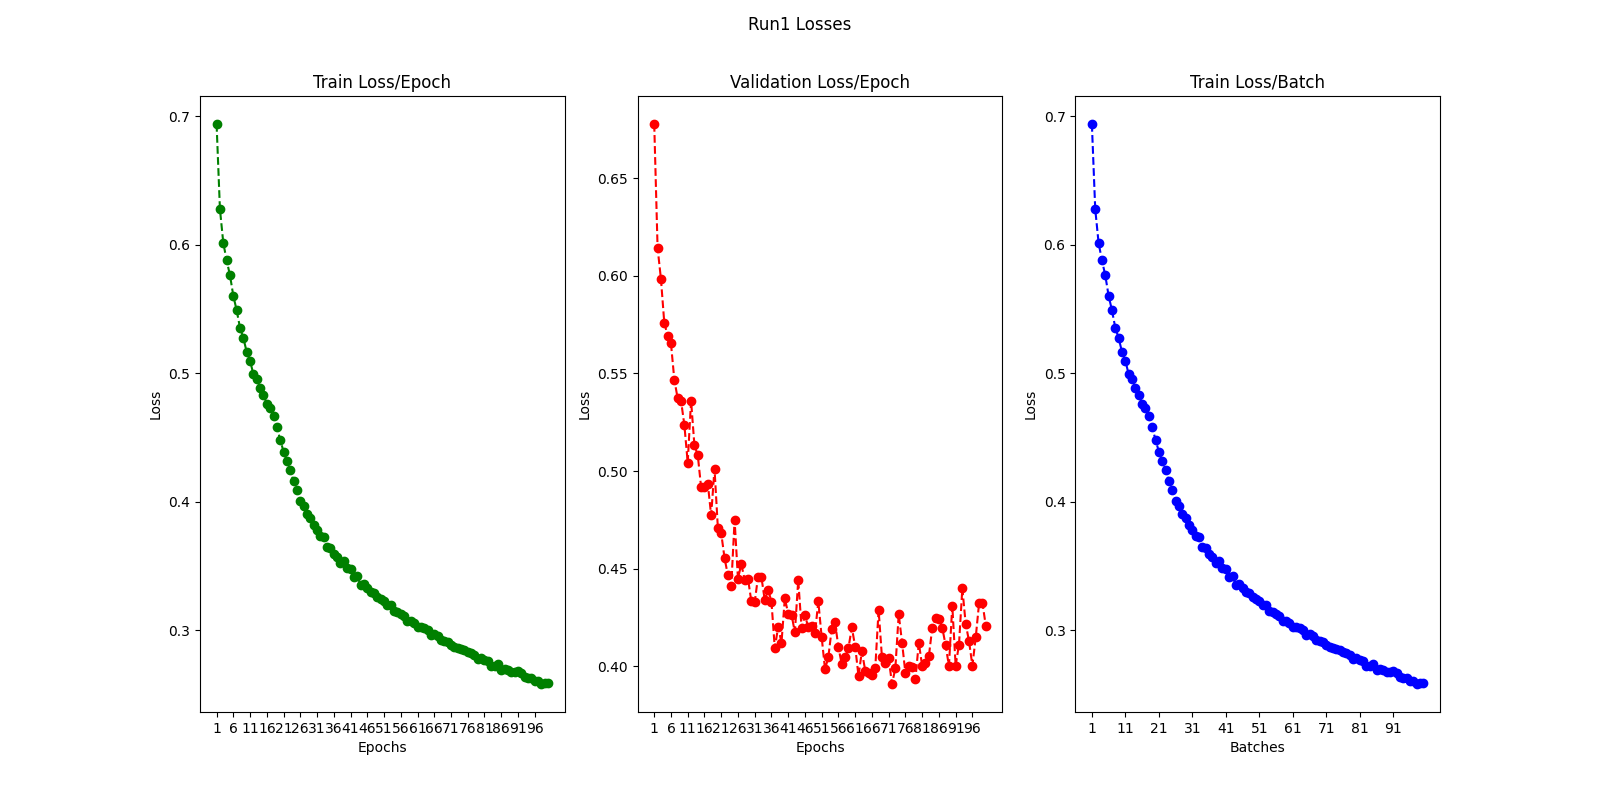
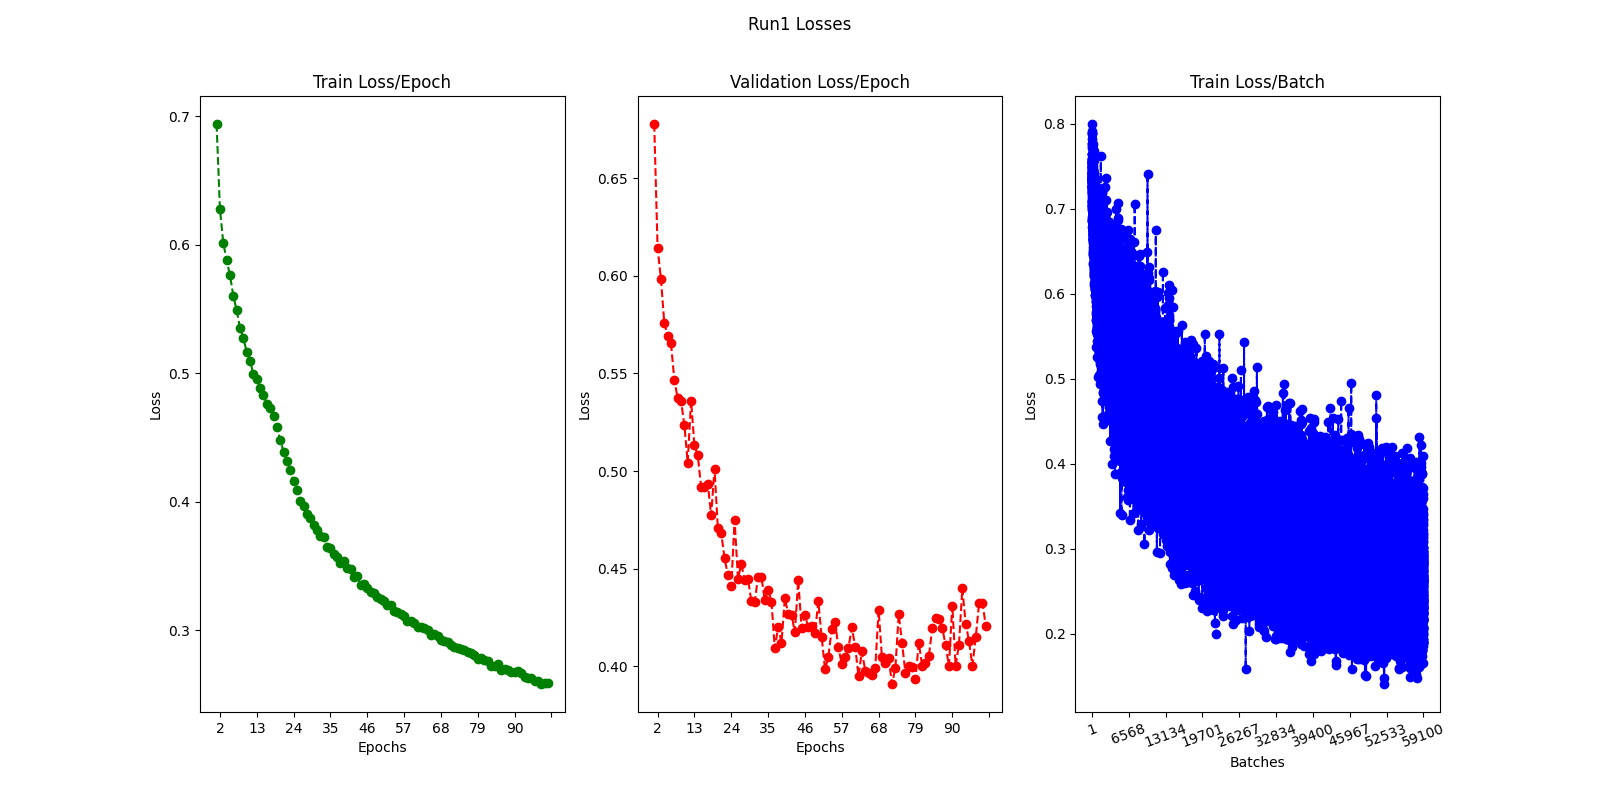
changes in plot and run2 plot

diff --git a/plot_logs.py b/plot_logs.py
@@ -1,5 +1,6 @@
 import csv
 import matplotlib.pyplot as plt
+from numpy import linspace
 from os import makedirs
 
 def plot_logs(run_name):
@@ -15,7 +16,7 @@ def plot_logs(run_name):
     """
     # Declares the path of the epochs and batch losses
     epochs_loss_csv = f"logs\{run_name}_training_log_epoch.csv"
-    batch_loss_csv = f"logs\{run_name}_training_log_epoch.csv"
+    batch_loss_csv = f"logs\{run_name}_training_log_batch.csv"
 
     # Initiates the list with the number of epochs, 
     # the value obtained for the loss during training 
@@ -50,9 +51,9 @@ def plot_logs(run_name):
         # Iterates through the lines 
         # and appends the loss values 
         # to their respective lists
-        for row in lines:
-            x_batch.append(float(row[0]))
-            train_batch_loss.append(float(row[1]))
+        for i, row in enumerate(lines):
+            x_batch.append(i)
+            train_batch_loss.append(float(row[2]))
 
     # Divides an image in three subplots 
     # aligned horizontally
@@ -67,26 +68,31 @@ def plot_logs(run_name):
     # and the marker of a data point
     # Sets the ticks to show only every 5 
     # or 10 values
+    len_epoch = len(x_epoch) - 1
+    ticks_epoch = linspace(0, len_epoch, 10)
+    ticks_batch = linspace(0, len(x_batch), 10)
+
     ax1.plot(x_epoch, train_epoch_loss, 
              color='g', linestyle='dashed', 
              marker='o')
     ax1.set_title("Train Loss/Epoch")
     ax1.set(xlabel="Epochs", ylabel="Loss")
-    ax1.set_xticks(x_epoch[::5])
+    ax1.set_xticks(ticks_epoch)
 
     ax2.plot(x_epoch, val_epoch_loss, 
              color='r', linestyle='dashed', 
              marker='o')
     ax2.set_title("Validation Loss/Epoch")
     ax2.set(xlabel="Epochs", ylabel="Loss")
-    ax2.set_xticks(x_epoch[::5]) 
+    ax2.set_xticks(ticks_epoch) 
 
     ax3.plot(x_batch, train_batch_loss, 
              color = 'b', linestyle = 'dashed', 
              marker = 'o')
     ax3.set_title("Train Loss/Batch")
     ax3.set(xlabel="Batches", ylabel="Loss")
-    ax3.set_xticks(x_batch[::10])
+    ax3.set_xticks(ticks_batch)
+    ax3.tick_params(axis='x', labelrotation=20)
     
     # Creates the imgs folder in case 
     # it does not exist
@@ -103,4 +109,4 @@ def plot_logs(run_name):
 # In case it is needed to run manually, 
 # here is the code
 if __name__ == "__main__":
-    plot_logs(run_name="Run1")
+    plot_logs(run_name="Run2")
